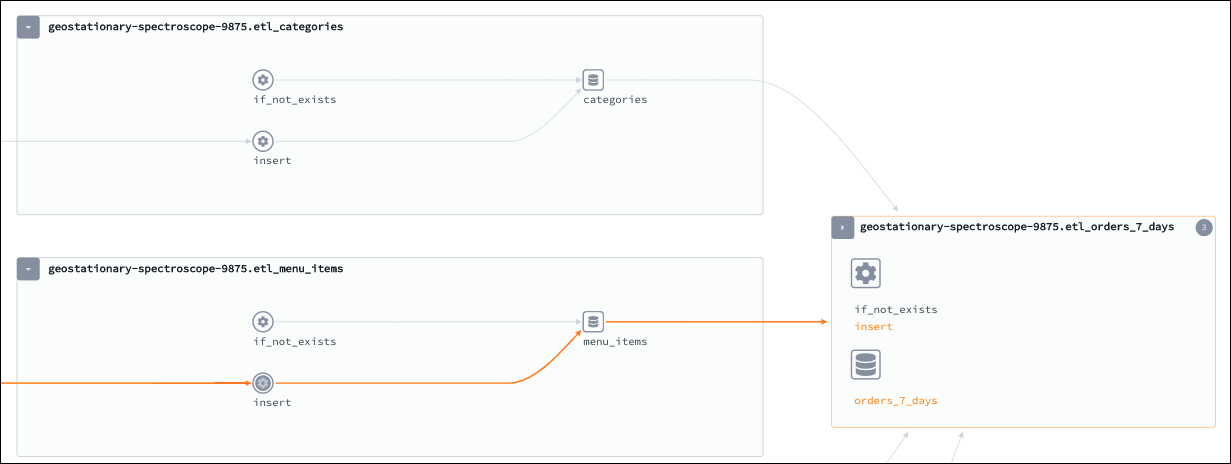
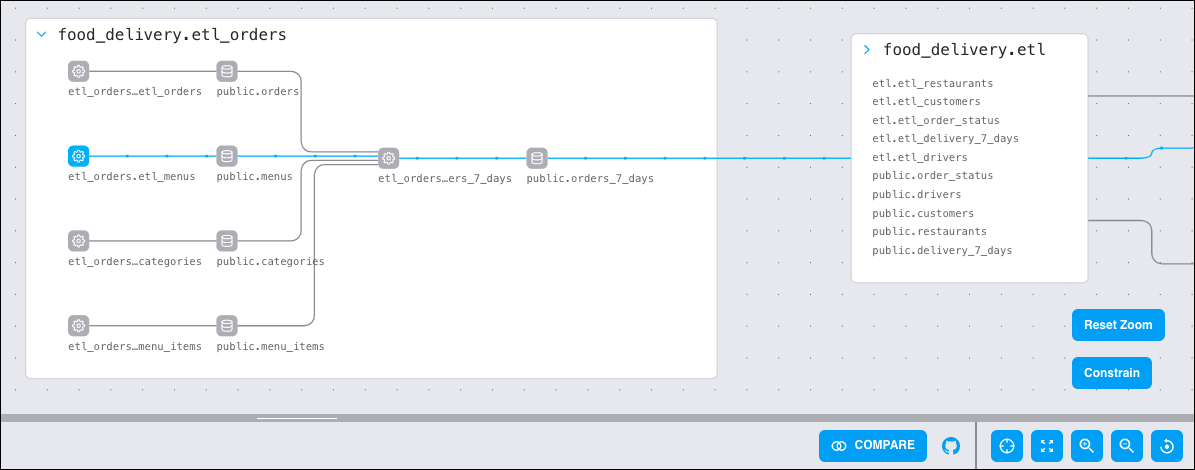
Update lineage UI docs based on the new integrated tab (#1308)
* Update lineage UI for integrated changes

* Update concepts docs

* Update astro/data-lineage.md

* Update for review

* Update integration docs

* Update datasets note

diff --git a/astro/data-lineage.md b/astro/data-lineage.md
@@ -9,13 +9,19 @@ The **Lineage** tab in the Cloud UI can help you troubleshoot issues with your d
 
 From the **Lineage** tab on Astro, you can access the following four pages:
 
-- **Explore**: A real-time overview of all **jobs** that emit data lineage across your Organization. A job can be an Airflow task or any other process configured to emit lineage data to Astronomer, such as a Spark job.
+- **Runs**: A real-time overview of all runs that emit data lineage across your Organization. A run can be an Airflow task run or any other process configured to emit lineage data to Astronomer, such as a Spark job.
 - **Datasets**: A real-time overview of all recent **datasets** that your DAGs have read or written to.
-- **Issues**: A view of potential issues or statistical inconsistencies related to your jobs or datasets.
+- **Issues**: A view of potential issues or statistical inconsistencies related to your runs or datasets.
 - **Lineage**: A graph view that visualizes data lineage.
 - **Integrations**: A view of your current data lineage integrations.
 
-You can use these pages to diagnose issues that may be difficult to troubleshoot in other environments. For example, if an Airflow task failed because a database schema changed, you can use the **Lineage** page on Astro to determine which job caused the change and which downstream tasks failed as a result.
+:::info
+
+Lineage datasets are different from Airflow's [datasets feature](https://airflow.apache.org/docs/apache-airflow/stable/concepts/datasets.html). Airflow datasets are defined explicitly in your DAG code, whereas lineage datasets are extracted and generated using lineage metadata. The Cloud UI currently does not show information about Airflow datasets.
+
+:::
+
+You can use these pages to diagnose issues that may be difficult to troubleshoot in other environments. For example, if an Airflow task failed because a database schema changed, you can use the **Lineage** page of the Cloud UI to determine which run caused the change and which downstream tasks failed as a result.
 
 For more information on data lineage and related concepts, see [Data lineage concepts](data-lineage-concepts.md).
 
@@ -37,76 +43,59 @@ To view lineage data for Deployments, you must configure Airflow and your extern
 
 ## View the lineage graph for a data pipeline
 
-You can use the search field at the top of the Cloud UI to view the lineage graph for one of your data pipelines, search for a DAG, task, or dataset. You can also search for jobs from other tools with lineage integrations, including dbt or Spark.
+You can use the search field at the top of the Cloud UI to view the lineage graph for one of your data pipelines, search for a DAG, task, or dataset. You can also search for runs from other tools with lineage integrations, including dbt or Spark.
 
 ![Example query in the lineage search bar](/img/docs/lineage-search.png)
 
-The search results include the namespace that emitted the matching event. When an Astro Deployment emits the lineage event, the namespace matches the Deployment namespace shown in the **Deployments** page of the Cloud UI. Clicking a search result opens the **Lineage** page and shows the lineage graph for the selected job or dataset. You can also access the lineage graph for a recent job run in the **Explore** page below **Most Recent Runs**.
+The search results include the namespace that emitted the matching event. When an Astro Deployment emits the lineage event, the namespace matches the Deployment namespace shown in the **Deployments** page of the Cloud UI. Clicking a search result opens the **Lineage** page and shows the lineage graph for the selected job or dataset. You can also access the lineage graph for a recent job run in the **Runs** page below **Most Recent Runs**.
 
 The **Lineage** page shows lineage data only for the most recent run of a given data pipeline. To explore lineage data from previous runs, see [Compare lineage graphs from previous runs](data-lineage.md#compare-lineage-graphs-from-previous-runs).
 
 :::info
 
-By default, when you access the **Lineage** page from the left menu, the last lineage graph you viewed is displayed. If you go directly to the **Lineage** page without viewing a lineage graph, no lineage graph data is displayed. If this happens, you can access a job run using the search bar or use the **Explore** page to populate the **Lineage** page with data.
+By default, when you access the **Lineage** page from the left menu, the last lineage graph you viewed is displayed. If you go directly to the **Lineage** page without viewing a lineage graph, no lineage graph data is displayed. If this happens, you can access a job run using the search bar or use the **Runs** page to populate the **Lineage** page with data.
 
 :::
 
 :::info
 
-A lineage graph with a single node indicates that the job you selected didn't emit any information about input or output datasets. Typically, this occurs when an Airflow task isn't using a [supported Airflow operator](data-lineage-support-and-compatibility.md). You can still view the duration of this job over time.
+A lineage graph with a single node indicates that the run you selected didn't emit any information about input or output datasets. Typically, this occurs when an Airflow task isn't using a [supported Airflow operator](data-lineage-support-and-compatibility.md). You can still view the duration of this run over time.
 
 :::
 
 ## Navigating the lineage graph
 
-In the **Lineage** page, Astronomer renders your data pipeline as a directed graph of **job** and **dataset** nodes:
+In the **Lineage** page, Astronomer renders your data pipeline as a directed graph of **run** and **dataset** nodes:
 
-- A **job** node represents an individual step in your data pipeline, such as an Airflow task or a Spark job.
-- A **dataset** node represents a data source that a job interacts with, such as a Snowflake database.
+- A **run** node represents an individual step in your data pipeline, such as an Airflow task or a Spark job.
+- A **dataset** node represents a data source that a run interacts with, such as a Snowflake database.
 
-Directed vertices connect jobs to datasets and datasets to jobs. Two jobs or two datasets can't be connected by a single vertex.
+Directed vertices connect runs to datasets and datasets to runs. Two runs or two datasets can't be connected by a single vertex.
 
-In the following example, `insert` is a job that exists as part of the `etl_menu_items` group. A vertex connects `insert` to the `menu_items` dataset to indicate that `insert` interacted with data in this dataset.
+In the following example, `etl_menus` is a run that exists as part of the `etl_orders` group in the `food_delivery` namespace. A blue vertex connects `etl_menus` to the `public.menus` dataset, and dots moving towards the dataset indicate that `insert` interacted with data in this dataset. The moving dots along the blue line continue into the `etl` group, which contains more runs and datasets. To see exactly where this data will flow in the `etl` group, you can expand the group using the blue arrow to the left of its name.
 
 ![Lineage graph example showing different nodes and vertices](/img/docs/lineage-overview.png)
 
 To navigate larger graphs, click and drag your mouse across the screen. To zoom in on a specific section of a graph, you can either scroll your mouse or click the magnifying glass icons in the information pane on the lower-left of the screen.
 
-Click or hover over a node to view the following information about the dataset or job:
+Click or hover over a node to view the following information about the dataset or run:
 
-- **Namespace**: The namespace of the Deployment in which the job ran.
-- **Name**: The DAG ID and task ID of the job, formatted as `<dag-id>.<task-id>`.
-- **Run information (job only)**: Metadata and status information about the job run.
-- **Quality checks (dataset only)**: The status of a dataset's data quality checks.
+- **Namespace**: The namespace of the Deployment containing the run.
+- **Name**: The DAG ID and task ID of the run, formatted as `<dag-id>.<task-id>`.
+- **Run information (run only)**: Metadata and status information about the run.
+- **Great Expectations (dataset only)**: The status of a dataset's Great Expectations data quality checks.
 
-Click a node to populate the information pane with detailed information about the job or dataset. For more information about using this view, see [View metrics for a specific job or dataset](data-lineage.md#view-metrics-for-a-specific-job-or-dataset).
+Click a node to populate the information pane with detailed information about the run or dataset. For more information about using this view, see [View metrics for a specific run or dataset](data-lineage.md#view-metrics-for-a-specific-run-or-dataset).
 
-### Access the graph legend
-
-Click the key icon in the information pane to open the graph legend. The legend provides a visual guide to help you distinguish between:
-
-- Job nodes and dataset nodes.
-- User-selected and unselected nodes.
-- Completed, running, failed, and aborted jobs
-- Completed, running, failed, and aborted dataset checks
-
-:::info
-
-Dataset and job statuses are based on checks of metadata attached to your data. To see the specifics of why a dataset failed, click the failed dataset node and check the **Quality** tab in the information pane. To check why a job failed, check the source of the job, such as your DAG or task.
-
-:::
-
-Use the **Cluster Mode** and **Edge Drawing Mode** settings to customize how the graph appears in the legend.
-
-## View metrics for a specific job or dataset
+## View metrics for a specific run or dataset
 
 On the **Lineage** page, the following tabs appear below the lineage graph:
 
-- **Info**: Shows the code for a job or the schema for a dataset. Also shows the difference between job runs when you create a comparison in the **Compare** tab.
-- **Inputs/Outputs**: Shows the inputs and outputs for a job or dataset. This information is equivalent to the upstream and downstream nodes in the graph view.
+- **Info**: Shows the code for a run or the schema for a dataset. Also shows the difference between runs when you create a comparison in the **Compare** tab.
+- **Inputs/Outputs**: Shows the inputs and outputs for a run or dataset. This information is equivalent to the upstream and downstream nodes in the graph view.
 - **Quality (Dataset only)**: Shows the data quality checks performed on each element of a dataset. Expand a listed dataset element to view more information about a specific quality check.
-- **Duration (Job only)**: Shows the duration of upstream job runs in descending order. To view job run durations relative to the average duration across all job runs, click the blue arrow next to the name of your most recent job run and then click **Maximize** at the bottom of the list.
-- **Compare (Job only)**: Shows other job runs for the currently selected job. Select any two job runs and go to the **Info** tab to view code changes between the two job runs. Use this tab to compare job runs with different statuses or run times to measure performance between code changes.
+- **Duration (Run only)**: Shows the duration of upstream runs in descending order. To view run durations relative to the average duration across all runs, click the blue arrow next to the name of your most recent run and then click **Maximize** at the bottom of the list.
+- **Compare (Run only)**: Shows other runs for the currently selected run. Select any two run runs and go to the **Info** tab to view code changes between the two runs. Use this tab to compare runs with different statuses or run times to measure performance between code changes.
 
 ### Check for data quality
 
@@ -118,15 +107,15 @@ If you have a [Great Expectations](https://docs.greatexpectations.io/docs/) inte
 - The amount of megabytes consumed by your dataset over time.
 - Successes and failures of data quality checks.
 
-![Quality tab example](/img/docs/quality-tab.png)
+![Quality tab example](/img/docs/lineage-quality-tab.png)
 
-These charts display data for the past 20 job runs.
+These charts display data for up to the past 20 runs.
 
 Use the **Quality** tab to detect unexpected changes or statistical variance in your dataset that could indicate a problem. The following topics explain each available chart in the tab.
 
 #### Rows
 
-The **Rows** chart shows the total number of rows in the dataset over time. A significant change in rows can occur naturally. For example, a rapid increase of customer orders occurs during the holiday season. However, it can also indicate an error in an upstream job, especially if it is sudden or unexpected.
+The **Rows** chart shows the total number of rows in the dataset over time. A significant change in rows can occur naturally. For example, a rapid increase of customer orders occurs during the holiday season. However, it can also indicate an error in an upstream run, especially if it is sudden or unexpected.
 
 #### Bytes
 
@@ -134,7 +123,7 @@ The **Bytes** chart shows the total size of the dataset over time. A sudden incr
 
 #### Quality metrics
 
-The **Quality Metrics** chart shows the pass or fail status of quality assertions in a Great Expectations suite.
+The **Quality Counts** chart shows the pass or fail status of quality assertions in a Great Expectations suite.
 To see details on the assertions that have passed or failed, hover over a point on the chart.
 
 #### Distinct count (Column-level)
@@ -157,26 +146,32 @@ To see details on the assertions that have passed or failed, hover over a given 
 
 ### Compare lineage graphs from previous runs
 
-The **Compare** tab shows a list of past job runs for a given job. Using the compare tab, you can select pairs of job runs to see what changed in your pipelines between the two runs.
+The **Compare** view shows a list of past instances for a given run. Using this view, you can select two different run instances to see what changed in your pipelines between the two run instances.
 
-1. Click a job on the graph.
-2. Click the **Compare** tab to see a list of all previous job runs for the selected job. The colored bar above a job run indicates the job run duration and run state. Job runs with a run state of `COMPLETE` have a blue bar, and job runs with a run state of `FAILED` have an orange bar.
+1. Click a run on the graph.
+   
+2. Click **Compare**. 
 
-    ![Compare tab example](/img/docs/compare.png)
+    ![Compare tab example](/img/docs/lineage-compare.png)
 
-3. Select any two job runs to open the comparison view for your graph. In this view:
+    A bar graph appears showing you the time and duration of previous runs with the same run ID. The colored bar for a run indicates the run's duration and state. Successful runs have a green bar while failed runs have a red bar. 
 
-    - Jobs and datasets that experienced a code change between the time of your selected job runs are highlighted on the graph.
-    - Jobs and datasets that stayed the same between job runs are shaded.
-    - Your selected job is shown with an anchor icon and a blue box.
-    - The bottom of the graph shows information about your comparison.
+3. Select any two runs to open the comparison view for your graph. In this view:
 
-    ![Graph in compare mode](/img/docs/compare-graph.png)
+    - An orange icon identifies runs and datasets that experienced a code change between the time of your selected runs.
+    - The run whose instances you're comparing is highlighted in orange and labeled **Comparing Task**.
+    - Any part of the data pipeline that is affected by the code change is highlighted with orange vertices. 
+    - When you click a run or a dataset which experienced a code change during the comparison period, the code change is highlighted in the bottom table.
+  
+4. Select a run or dataset that experienced a code change.
+   
+5. Click the **Info** tab. Instead of showing a single code source, this tab now shows code differences during your comparison period. Use this information to determine what code change might have caused downstream errors.
 
-4. Select a job or dataset that experienced a code change.
-5. Click the **Info** tab. Instead of showing a single code source, this tab now shows the code source from both of your compared job runs. Use this information to determine what code change might have caused downstream errors.
+In the following example, two instances of the run `analytics.delivery_times_7_days` are being compared over time. During this period, the dataset `public.delivery_7_days` experienced a code change. Because this dataset is upstream of the compared run, it's marked with an orange notification and has an orange vertex connecting it to the run.
 
-    ![Info tab when comparing two code sources](/img/docs/compare-code.png)
+After clicking the dataset, the metrics window shows the message **CHANGES BETWEEN COMPARED RUNS** and a notification appears on the **Info** tab. After clicking the **Info** tab, the UI shows that the `discount_id` filed was changed from an `INTEGER` to a `VARCHAR` type.
+
+    ![Info tab when comparing two code sources](/img/docs/lineage-compare-example.png)
 
 ## View a summary of issues across Deployments
 
@@ -186,17 +181,21 @@ The **Issues** page contains metrics that can help you identify data pipeline be
 
 The **Issues** page identifies the following issues:
 
+<<<<<<< HEAD
+- **Job Execution Issues**: A job execution issue occurs when a run emits an error that it did not successfully complete. This metric is only available for Deployments using Runtime 5.0.0 and later.
+- **Job Duration Issues**: A job duration issue occurs when a run's duration differs by more than three standard deviations from the average run time for that specific run.
+- **Data Quality Issues**: If you integrate with [Great Expectations](https://www.astronomer.io/guides/airflow-great-expectations/), an open source data quality tool, this metric will track issues generated by expectation quality checks for datasets. Use this tab to detect data quality failures that could indicate an upstream problem.
+=======
 - **Job Execution Issues**: A job execution issue occurs when a job emits an error that it did not successfully complete. This metric is only available for Deployments using Runtime 5.0.0+.
 - **Job Duration Issues**: A job duration issue occurs when a job run's duration differs by more than three standard deviations from the average run time for that specific job.
 - **Data Quality Issues**: If you integrate with [Great Expectations](https://docs.astronomer.io/learn/airflow-great-expectations/), an open source data quality tool, this metric will track issues generated by expectation quality checks for datasets. Use this tab to detect data quality failures that could indicate an upstream problem.
+>>>>>>> 81adc6964c2884d358c635fa1b2a28972724faea
 
 ## View a summary of past runs
 
-By default, the **Lineage** page shows the last lineage graph you accessed. To view metrics about all of your job runs and access lineage graphs, click **Explore** on the left sidebar. This page is structured similarly to the Airflow UI calendar view. It provides a list of your most recent runs, as well as a calendar that shows all runs over the last year.
+By default, the **Lineage** page shows the last lineage graph you accessed. To view metrics about all of your runs and access lineage graphs, click **Runs** on the left sidebar. This page is structured similarly to the Airflow UI calendar view. It provides a list of your most recent runs, as well as a calendar that shows all runs for the last year.
 
 ![Lineage summary page](/img/docs/lineage-explore.png)
-
-Airflow tasks appear as jobs with the name `<dag_id>.<task_id>`. For example, the job `example_dag_basic.extract` represents the `extract` task running within the `example_dag_basic` DAG.
 
 This view can help you get a better sense of the scope of your lineage integrations. It can also help you confirm that a recent run was picked up by the lineage backend as expected.
 
@@ -204,7 +203,7 @@ This view can help you get a better sense of the scope of your lineage integrati
 
 Use the **Datasets** page to view a table of recent datasets that your DAGs have read or written to. This information can help you quickly identify dataset dependencies and data pipeline access requirements.
 
-![Datasets page](/img/release-notes/datasets-page.png)
+![Datasets page](/img/docs/lineage-datasets.png)
 
 Each row in the table includes:
 

diff --git a/astro/data-lineage-concepts.md b/astro/data-lineage-concepts.md
@@ -1,0 +1,41 @@
+---
+sidebar_label: 'Data lineage concepts'
+title: "Data lineage concepts"
+id: data-lineage-concepts
+description: Learn about data lineage and how you can use it in Airflow.
+---
+
+[Data lineage](https://en.wikipedia.org/wiki/Data_lineage) is the concept of tracking and observing data flowing through a data pipeline. You can use data lineage to understand data sources, troubleshoot run failures, manage  personally identifiable information (PII), and ensure compliance with data regulations.
+
+## Lineage on Astronomer
+
+In the Cloud UI, the **Lineage** tab renders the lineage metadata generated by your DAGs as a dynamic graph. For more information on using the lineage tab, see [Data lineage](data-lineage.md).
+
+Astro leverages the [OpenLineage](https://openlineage.io/) open source standard to emit lineage metadata. OpenLineage standardizes the definition of data lineage, the metadata that makes up lineage data, and the approach for collecting lineage data from external systems. It also defines a [formalized specification](https://github.com/OpenLineage/OpenLineage/blob/main/spec/OpenLineage.md) for data lineage.
+
+## Core concepts
+
+The following terms are used frequently when discussing data lineage and OpenLineage with Astro.
+
+- **Integration:** A means of gathering lineage data from a source system such as a scheduler or data platform. For example, the OpenLineage Airflow integration allows lineage data to be collected from Airflow DAGs. A full list of OpenLineage integrations can be found [here](https://openlineage.io/integration).
+- **Extractor:** In the `openlineage-airflow` package, an extractor is a module that gathers lineage metadata from a specific hook or operator. For example, extractors exist for the `PostgresOperator` and `SnowflakeOperator`, meaning that if `openlineage-airflow` is installed and configured for your Airflow environment, then lineage data is generated automatically from those operators when your DAG runs. An extractor must exist for a specific operator to get lineage data from it.
+- **Run:** A process that consumes or produces datasets. In the context of Airflow, an OpenLineage run corresponds to a task in your DAG as long as your task is an instance of an operator with an extractor. Runs can also represent work completed in other applications that emit lineage data, such as a Spark job or a dbt model. Runs appear as nodes on your lineage graphs in the [lineage UI](data-lineage.md).
+- **Dataset:** Any collection of data that your runs interact with. For example, a dataset can correspond to a table in your database or a set of data that you run a Great Expectations check on. A dataset is typically registered as part of your lineage data when a run writing to the dataset is completed. For example, when data is inserted into a table.
+- **Run:** An instance of a run where lineage data is generated. In the context of the Airflow integration, an OpenLineage run is generated with each DAG run.
+- **Facet:** A piece of lineage metadata about a run, dataset, or run. Also known as a “job facet”.
+
+## OpenLineage and Airflow
+
+Using OpenLineage with Airflow gives you insight into your complex data ecosystems and can lead to better data governance. Airflow is a natural place to integrate data lineage because it touches and moves data across many parts of an Organization.
+
+The following are the insights that OpenLineage with Airflow provides:
+
+- Quickly locate the cause of task failures by identifying issues in upstream datasets. For example, you might see that a task failed because an upstream run outside of Airflow failed to populate a particular dataset.
+- Easily see the affected area of any run failures or changes to data by visualizing the relationship between runs and datasets.
+- Identify where key data is used in runs across an Organization.
+
+Integrating OpenLineage with Airflow provides the following benefits:
+
+- Allows you to quickly recover from complex failures. The faster you can identify the problem and the affected area, the quicker you can resolve and prevent erroneous decisions being made from bad data.
+- Makes it easier for teams in your Organization to work together. Being able to visualize the full scope of where and how a dataset is used reduces the time you spend on analysis.
+- Ensures compliance with data regulations by helping you understanding where your data is used.

diff --git a/astro/set-up-data-lineage.md b/astro/set-up-data-lineage.md
@@ -21,24 +21,14 @@ Configuring a system to send lineage data requires:
 - Installing an OpenLineage backend to emit lineage data from the system.
 - Specifying your Organization's OpenLineage API endpoint to send lineage data to the Astro control plane.
 
-:::tip
-
-You can access this documentation directly from the **Lineage** tab in the Cloud UI. The embedded documentation additionally loads your Organization's configuration values, such as your OpenLineage API key and your Astro base domain, directly into configuration steps.
-
-:::
-
 ### Retrieve your OpenLineage API key
 
 To send lineage data from an external system to Astro, you must specify your Organization's OpenLineage API key in the external system's configuration.
 
-1. In the Cloud UI, click the **Lineage** tab.
-2. In the left menu, click **Integrations**:
-
-    ![Location of the "Integrations" button in the Lineage tab of the Cloud UI](/img/docs/lineage-docs.png)
-
-3. In **Getting Started**, copy the value below **OpenLineage API Key**.
-
-For more information about how to configure this API key in an external system, review the Integration Guide for the system.
+1. In the Cloud UI, open the **Settings** tab.
+2. Copy the value in **Lineage API Key**.
+   
+For more information about how to configure this API key in an external system, see the [Integration guide](#integration-guides) for your system.
 
 ## Integration guides
 
@@ -124,7 +114,7 @@ After you save this configuration, lineage is enabled for all Spark jobs running
 
 #### Verify Setup
 
-To test that lineage was configured correctly on your Databricks cluster, run a test Spark job on Databricks. After your job runs, open the **Lineage** tab in the Cloud UI and go to the **Explore** page. If your configuration is successful, you'll see your Spark job appear in the **Most Recent Runs** table. Click a job run to see it within a lineage graph.
+To test that lineage was configured correctly on your Databricks cluster, run a test Spark job on Databricks. After your job runs, open the **Lineage** tab in the Cloud UI and go to the **Rims** page. If your configuration is successful, you'll see your Spark job appear in the table of most recent runs. Click a job run to see it within a lineage graph.
 
 </TabItem>
 
@@ -170,7 +160,7 @@ This guide outlines how to set up lineage collection for a dbt project.
 
 #### Verify Setup
 
-To confirm that your setup is successful, run a dbt model in your project. After you run this model, open the **Lineage** tab in the Cloud UI and go to the **Explore** page. If the setup is successful, the run that you triggered appears in the **Most Recent Runs** table.
+To confirm that your setup is successful, run a dbt model in your project. After you run this model, open the **Lineage** tab in the Cloud UI and go to the **Runs** page. If the setup is successful, the run that you triggered appears in the table of most recent runs.
 
 </TabItem>
 
@@ -250,7 +240,7 @@ In your Spark application, set the following properties to configure your lineag
 
 #### Verify
 
-To confirm that your setup is successful, run a Spark job after you save your configuration. After you run this model, open the **Lineage** tab in the Cloud UI and go to the **Explore** page. Your recent Spark job run appears in the **Most Recent Runs** table.
+To confirm that your setup is successful, run a Spark job after you save your configuration. After you run this model, open the **Lineage** tab in the Cloud UI and go to the **Runs** page. Your recent Spark job run appears in the table of most recent runs.
 
 </TabItem>
 </Tabs>

diff --git a/astro/release-notes.md b/astro/release-notes.md
@@ -25,6 +25,18 @@ Using Astro CLI 1.7, you can run `astro deploy -—dags` to push only the `dags`
 
 For more information, see [Astro CLI 1.7](astro/cli/release-notes#deploy-only-dags-with-astro-deploy--dags) or [Deploy DAGs only](deploy-code.md#deploy-dags-only). For example CI/CD workflows with this feature enabled, see [CI/CD](ci-cd.md).
 
+### Improved data lineage interface
+
+The **Lineage** tab has new features and is better integrated into the Cloud UI.
+
+![Updated lineage page](/img/release-notes/lineage-integrated.png)
+
+Specifically, the tab includes the following improvements:
+
+- The process for comparing runs uses a simpler interface and provides more information about the runs you're comparing. See [Compare lineage graphs from previous runs](data-lineage.md#compare-lineage-graphs-from-previous-runs).
+- Names for UI elements have been updated to more clearly represent Airflow resources. For example, **jobs** is now **runs**, and the **Explore** tab is now **Runs**.
+- Lineage graphs include new colors and animations to show the flow of data as it moves between runs and datasets. 
+
 ### Transfer a Deployment
 
 You can now transfer a Deployment from one Workspace to another in your Organization. This feature is helpful if you need to change the group of users that have access to a Deployment, or if you create a Deployment in the wrong Workspace.
